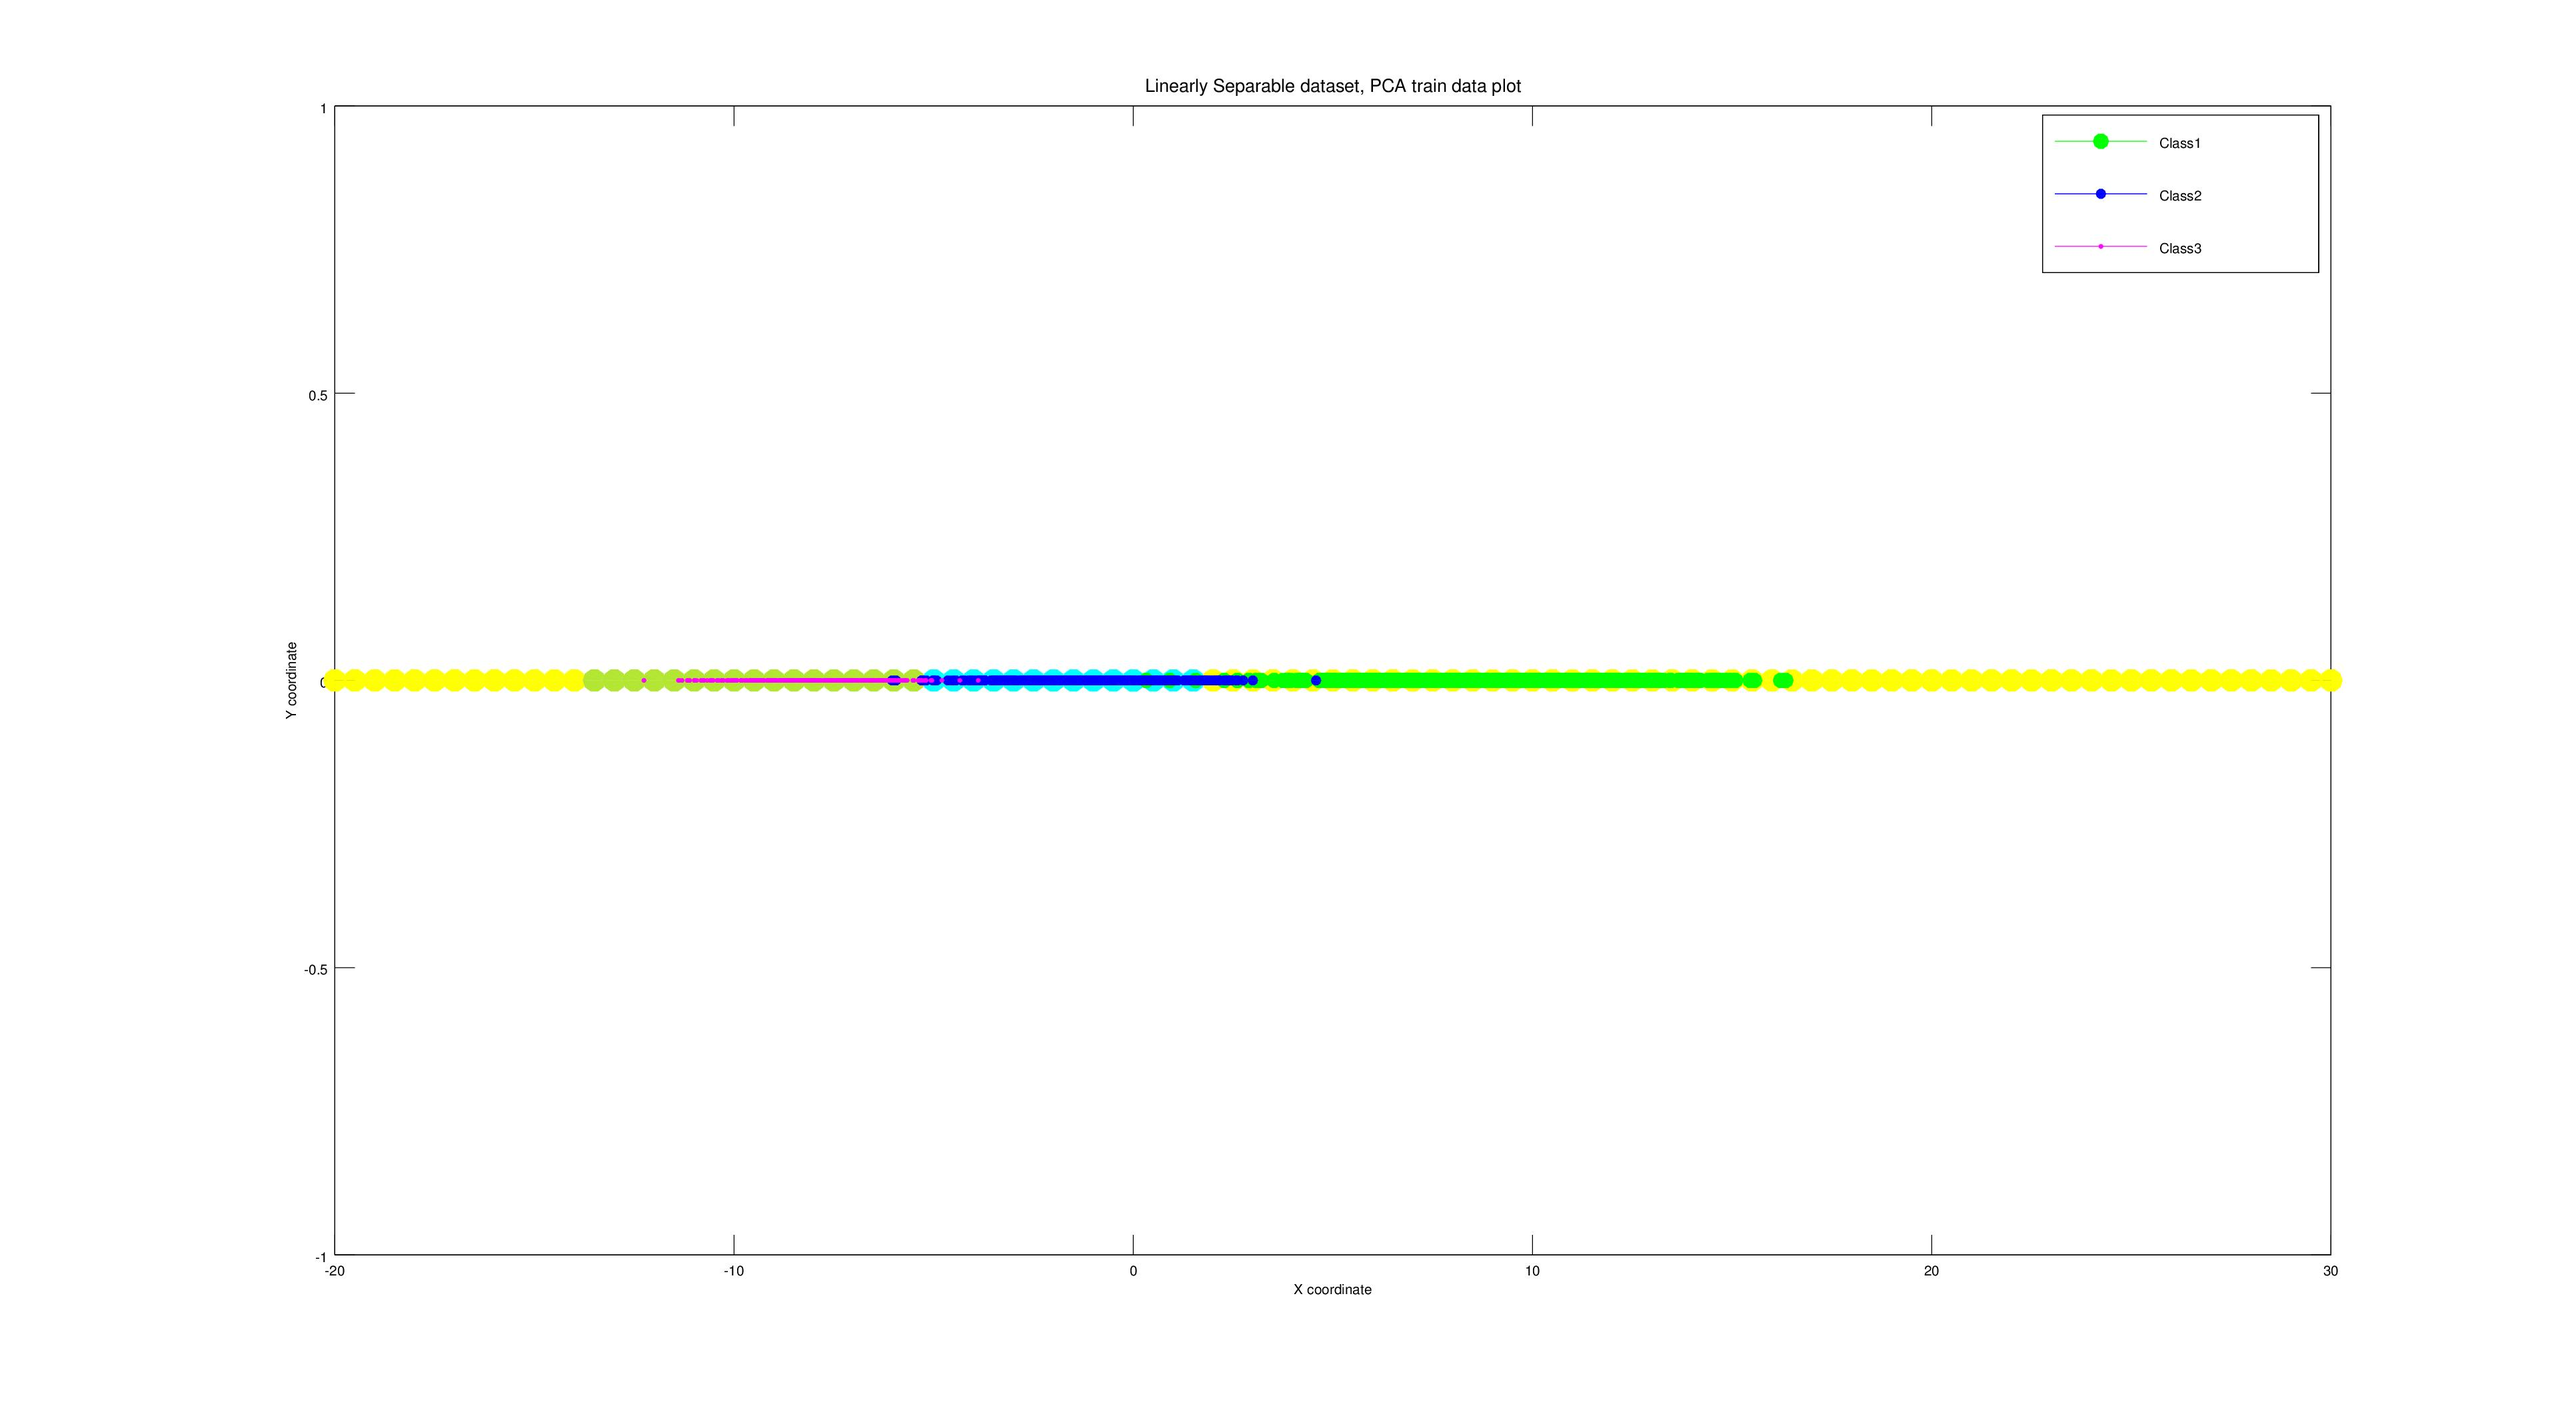
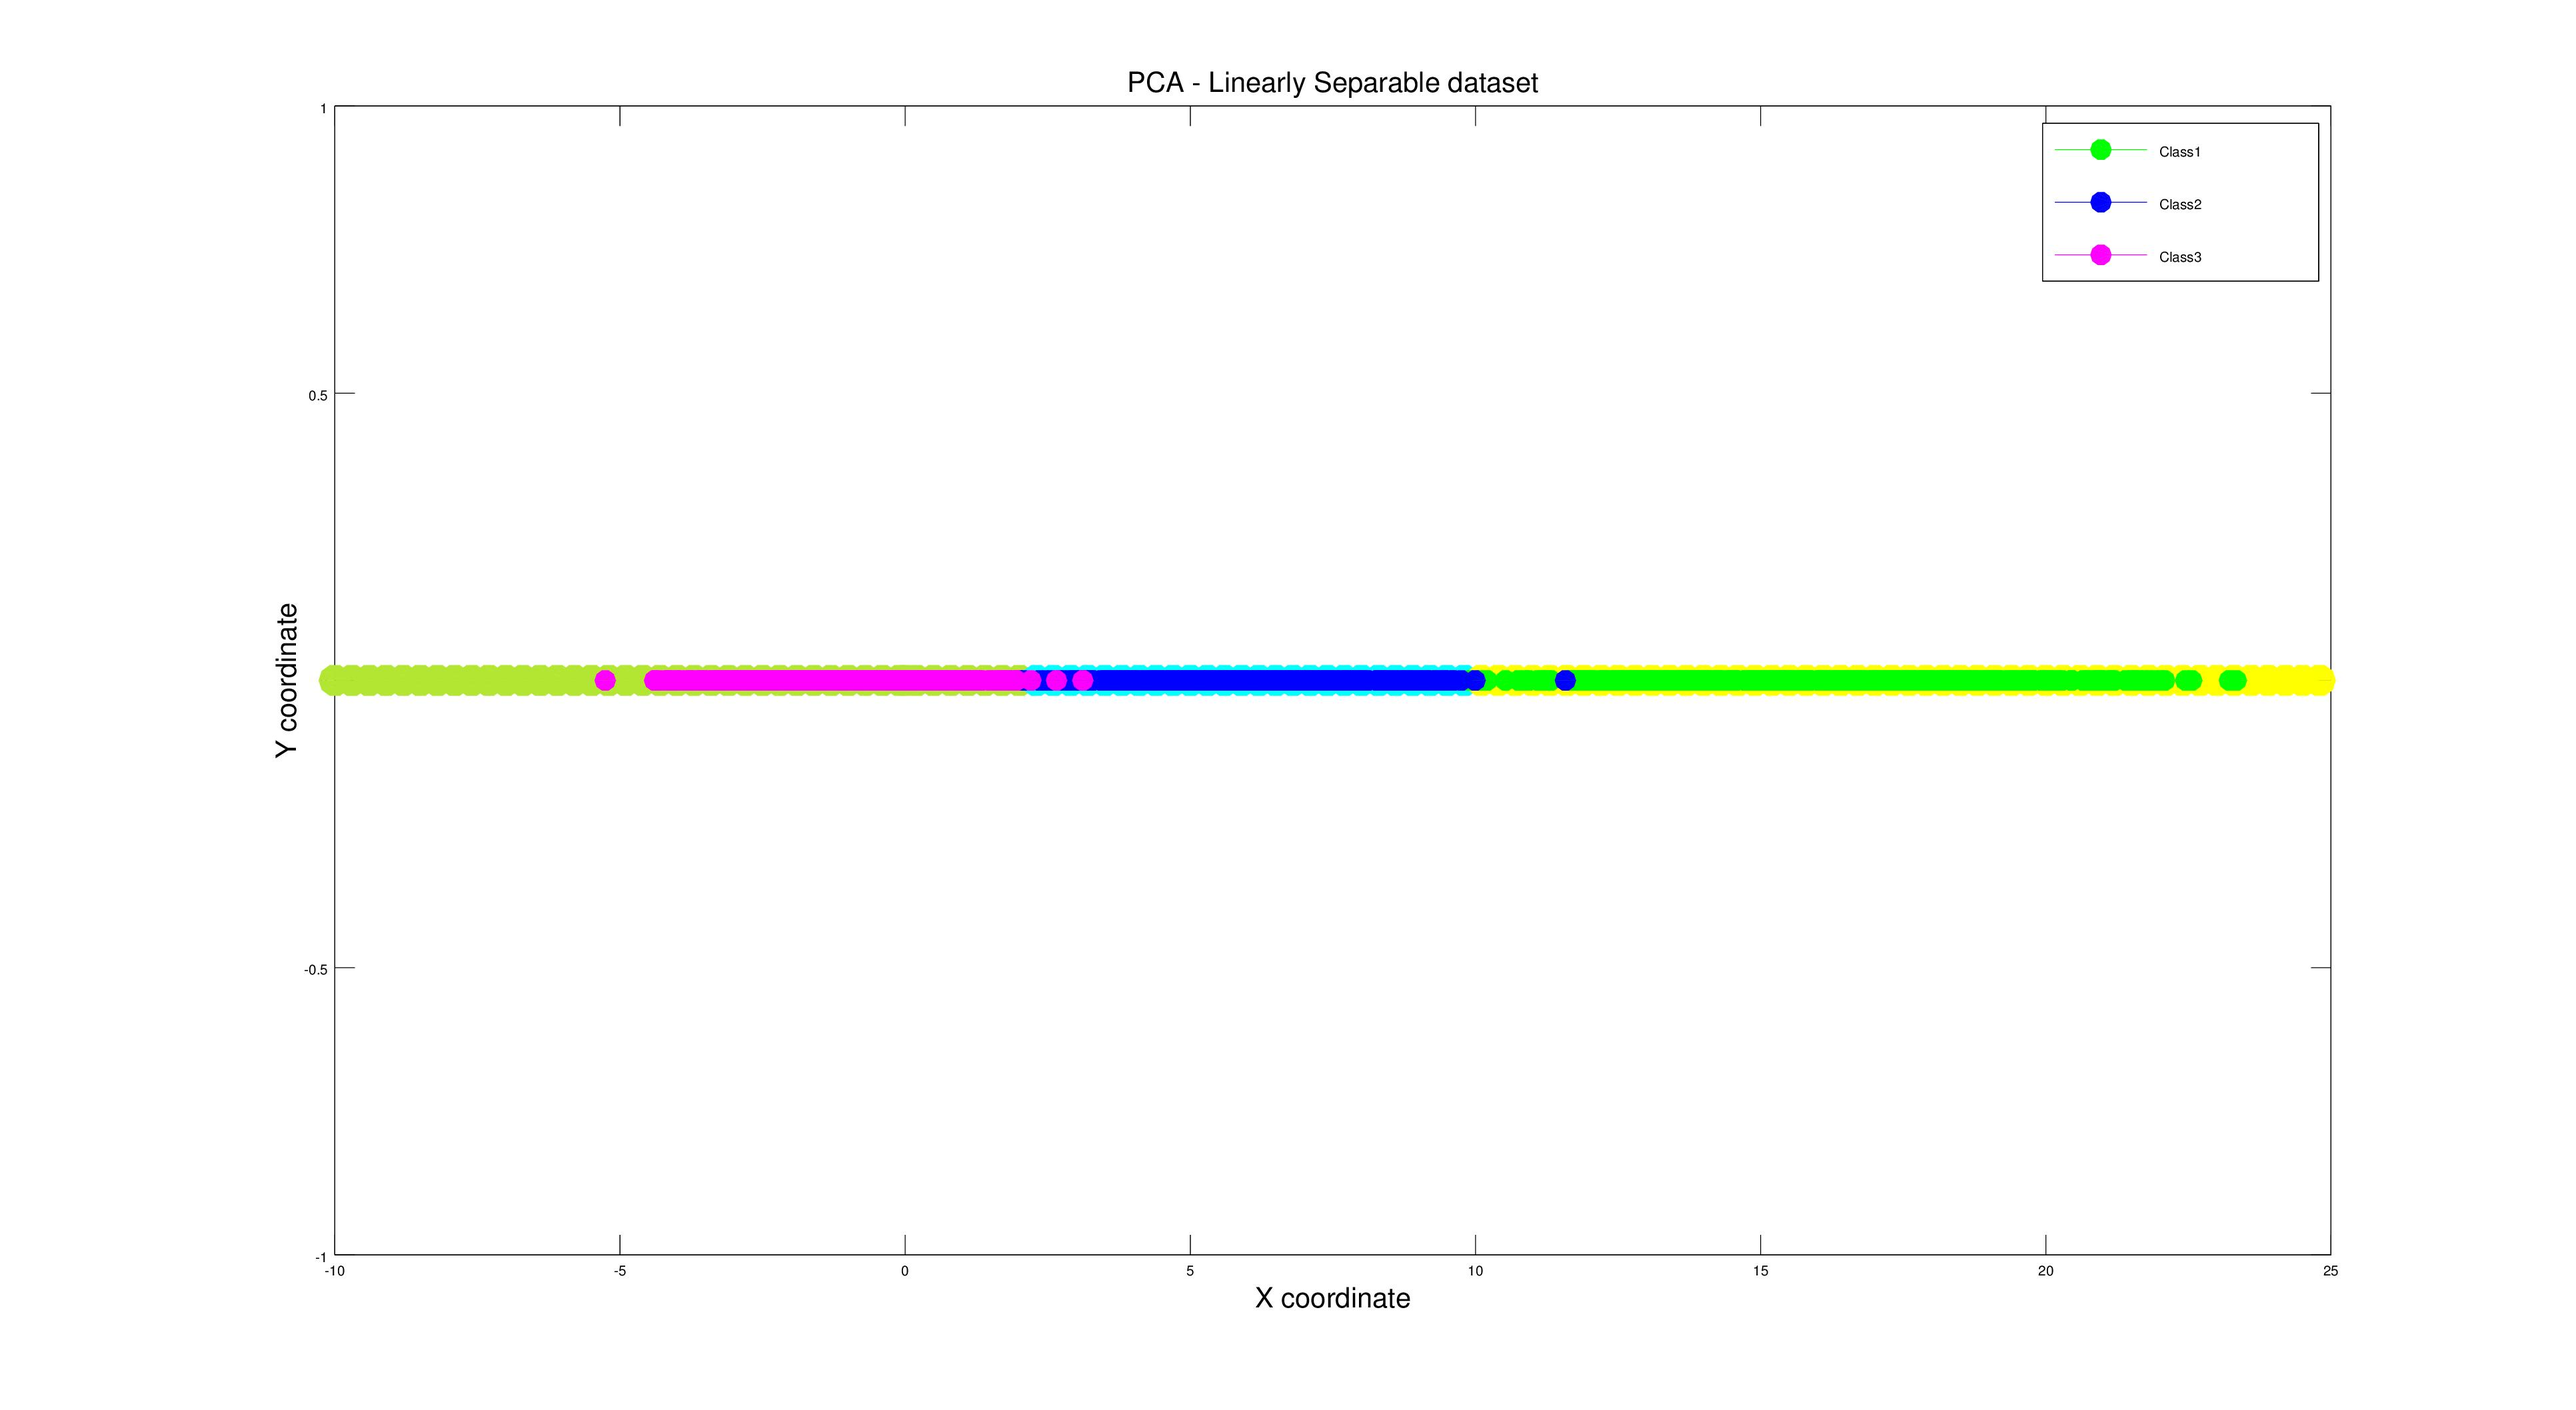
Added graphs in PCA

diff --git a/Assignment_4/PCA/classifier.m b/Assignment_4/PCA/classifier.m
@@ -17,7 +17,7 @@ disp('classifier starts ..');
 	[Mean,Cov,Pi] = GMM(X1,k);       
 	[MeanY,CovY,PiY] = GMM(Y1,k);
 	[MeanZ,CovZ,PiZ] = GMM(Z1,k);
-	figure(100);
+	% figure(100);
 	tc1 = 0;
 	tc2 = 0;
 	tc3 = 0;
@@ -48,21 +48,21 @@ disp('classifier starts ..');
 		G = [p,q,r];
 		g = max(G);
 		if (g == p),
-			plot(X(i,1),0,'g');
+			% plot(X(i,1),0,'g');
 			tc1 = tc1 + 1;
-			hold on;
+			% hold on;
 			end;			
 		if (g == q),
-			plot(X(i,1),0,'b');
+			% plot(X(i,1),0,'b');
 			tp2 = tp2 + 1;
 			t12 = t12 + 1;
-			hold on;
+			% hold on;
 		end;
 		if (g == r),
-			plot(X(i,1),0,'m');
+			% plot(X(i,1),0,'m');
 			tp3 = tp3 + 1;
 			t13 = t13 + 1;
-			hold on;
+			% hold on;
 		end;
 	end;		
 
@@ -84,21 +84,21 @@ disp('classifier starts ..');
 		G = [p,q,r];
 		g = max(G);
 		if (g == p),
-			plot(Y(i,1),0,'g');
+			% plot(Y(i,1),0,'g');
 			tp1 = tp1 + 1;
 			t21 = t21 + 1;
-			hold on;
+			% hold on;
 			end;			
 		if (g == q),
-			plot(Y(i,1),0,'b');
+			% plot(Y(i,1),0,'b');
 			tc2 = tc2 + 1;
-			hold on;
+			% hold on;
 		end;
 		if (g == r),
-			plot(Y(i,1),0,'m');
+			% plot(Y(i,1),0,'m');
 			tp3 = tp3 + 1;
 			t23 = t23 + 1;
-			hold on;
+			% hold on;
 		end;
 	end;
 
@@ -119,21 +119,21 @@ disp('classifier starts ..');
 		G = [p,q,r];
 		g = max(G);
 		if (g == p),
-			plot(Z(i,1),0,'g');
+			% plot(Z(i,1),0,'g');
 			tp1 = tp1 + 1;
 			t31 = t31 + 1;
-			hold on;
+			% hold on;
 			end;			
 		if (g == q),
-			plot(Z(i,1),0,'b');
+			% plot(Z(i,1),0,'b');
 			tp2 = tp2 + 1;
 			t32 = t32 + 1;
-			hold on;
+			% hold on;
 		end;
 		if (g == r),
-			plot(Z(i,1),0,'m');
+			% plot(Z(i,1),0,'m');
 			tc3 = tc3 + 1;
-			hold on;
+			% hold on;
 		end;
 	end;		
 
@@ -145,7 +145,7 @@ disp('classifier starts ..');
 	% plotting region
 	figure(203);
 	pts = [0];
-	for i = 0:5:2500,
+	for i = 0:50:2500,
 	  pts = [pts;i];
 	end;
 	for i = 1:length(pts);
@@ -164,87 +164,87 @@ disp('classifier starts ..');
 		 a = [p q r];
 		 a = max(a);
 		 if a == p,
-		    p1=plot(0,x(1),'y','MarkerSize',18);
+		    p1=plot(0,x(1),'y','MarkerSize',35);
 		      hold on;
 		      % ++tc1;
 		 end;     
 		 if a == q,
-		    plot(0,x(1),'c','MarkerSize',18);
+		    plot(0,x(1),'c','MarkerSize',35);
 		      hold on;
 		      % ++tp2;
 		  end;    
 		 if a == r,
-		    plot(0,x(1),'Color',[0.7 0.9 0.2],'MarkerSize',18);
+		    plot(0,x(1),'Color',[0.7 0.9 0.2],'MarkerSize',35);
 		      hold on;
 		      % ++tp2;
 		  end;
       
 	end;
 
-	%training data
-	% n = rows(X);
-	% m1 = floor(0.75 * n);
-	% for i = 1:m1,
-	%    x = [X(i,1)];
-	%    x = x';
-	%    p1=plot(x(1),0,'MarkerSize',8,'g');
-	%    hold on;
-	%  end;
+	% training data
+	n = rows(X);
+	m1 = floor(0.75 * n);
+	for i = 1:m1,
+	   x = [X(i,1)];
+	   x = x';
+	   p1=plot(0,x(1),'MarkerSize',23,'g');
+	   hold on;
+	 end;
 
-	%  n = rows(Y);
-	% m2 = floor(0.75 * n);
-	% for i = 1:m2,
-	%    x = [Y(i,1)];
-	%    x = x';
-	%    p2=plot(x(1),0,'MarkerSize',8,'b');
-	%    hold on;
-	%  end;
+	 n = rows(Y);
+	m2 = floor(0.75 * n);
+	for i = 1:m2,
+	   x = [Y(i,1)];
+	   x = x';
+	   p2=plot(0,x(1),'MarkerSize',23,'b');
+	   hold on;
+	 end;
 
-	%  n = rows(Z);
-	% m3 = floor(0.75 * n);
-	%  for i = 1:m3,
-	%    x = [Z(i,1)];
-	%    x = x';
-	%    p3=plot(x(1),0,'MarkerSize',8,'m');
-	%    hold on;
-	%  end;
+	 n = rows(Z);
+	m3 = floor(0.75 * n);
+	 for i = 1:m3,
+	   x = [Z(i,1)];
+	   x = x';
+	   p3=plot(0,x(1),'MarkerSize',23,'m');
+	   hold on;
+	 end;
 
 	% testing data
 	% figure(34);
-	n = rows(X);
-	m1 = floor(0.75 * n)+1;
-	for i = m1:n,
-	  x = [X(i,1)];
-	  x = x';
-	  p1=plot(0,x(1),'MarkerSize',8,'g');
-	  hold on;
-	end;
+	% n = rows(X);
+	% m1 = floor(0.75 * n)+1;
+	% for i = m1:n,
+	%   x = [X(i,1)];
+	%   x = x';
+	%   p1=plot(0,x(1),'MarkerSize',8,'g');
+	%   hold on;
+	% end;
 
-	n = rows(Y);
-	m2 = floor(0.75 * n)+1;
-	for i = m2:n,
-	  x = [Y(i,1)];
-	  x = x';
-	  p2=plot(0,x(1),'MarkerSize',8,'b');
-	  hold on;
-	end;
+	% n = rows(Y);
+	% m2 = floor(0.75 * n)+1;
+	% for i = m2:n,
+	%   x = [Y(i,1)];
+	%   x = x';
+	%   p2=plot(0,x(1),'MarkerSize',8,'b');
+	%   hold on;
+	% end;
 
-	n = rows(Z);
-	m3 = floor(0.75 * n)+1;
-	for i = m3:n,
-	  x = [Z(i,1)];
-	  x = x';
-	  p3=plot(0,x(1),'MarkerSize',8,'m');
-	  hold on;
-	end;
+	% n = rows(Z);
+	% m3 = floor(0.75 * n)+1;
+	% for i = m3:n,
+	%   x = [Z(i,1)];
+	%   x = x';
+	%   p3=plot(0,x(1),'MarkerSize',8,'m');
+	%   hold on;
+	% end;
 
 
-	% xlabel('X coordinate');
-	% ylabel('Y coordinate');
-	% title('Real Dataset(K = 4)');
-	% legend([p1,p2,p3],'Class1','Class2','Class3');
-	% % print -djpg RD_4.jpg;
-	% hold off;
+	xlabel('X coordinate','FontSize',20);
+	ylabel('Y coordinate','FontSize',20);
+	title('PCA - Real World dataset','FontSize',20);
+	legend([p1,p2,p3],'Class1','Class2','Class3');
+	% print -djpg RD_4.jpg;
+	hold off;
 
 
 % end;

diff --git a/Assignment_4/Perceptron/Perceptron.m b/Assignment_4/Perceptron/Perceptron.m
@@ -23,7 +23,7 @@ function [] = Perceptron()
 	confusionmatrix
 
 	% plotting region
-   figure(4);
+   figure(5);
    pts = [0 0];
    for i = -10:0.9:30,
     for j = -20:0.9:20,
@@ -56,17 +56,24 @@ function [] = Perceptron()
    	Size = size(TrainData{i});
    	for j = 1:Size,
    		if i == 1,
-   			plot(TrainData{i}(j,1),TrainData{i}(j,2),'g','MarkerSize',9)
+   			p1 = plot(TrainData{i}(j,1),TrainData{i}(j,2),'g','MarkerSize',9)
    			hold on;
    		end
    		if i == 2,
-   			plot(TrainData{i}(j,1),TrainData{i}(j,2),'b','MarkerSize',9)
+   			p2 = plot(TrainData{i}(j,1),TrainData{i}(j,2),'b','MarkerSize',9)
    			hold on;
    		end
    		if i == 3,
-   			plot(TrainData{i}(j,1),TrainData{i}(j,2),'m','MarkerSize',9)
+   			p3 = plot(TrainData{i}(j,1),TrainData{i}(j,2),'m','MarkerSize',9)
    			hold on;
    		end	
    	end	
-   end		
+   end
+
+  xlabel('X coordinate','FontSize',13);
+  ylabel('Y coordinate','FontSize',13);
+  title('Perceptron - Linearly Separable dataset','FontSize',13);
+  legend([p1,p2,p3],'Class1','Class2','Class3');
+  % print -djpg RD_4.jpg;
+  hold off;		
 end

diff --git a/Assignment_4/Perceptron/testplot.m b/Assignment_4/Perceptron/testplot.m
@@ -1,0 +1,33 @@
+function [] = testplot(X,Y,Z)
+
+	%figure(34);
+   n = rows(X);
+   m1 = floor(0.75 * n)+1
+   for i = m1:n,
+      x = [X(i,1) X(i,2)];
+      x = x';
+      p1=plot(x(1),x(2),'MarkerSize',10,'g');
+      hold on;
+    end;
+    
+    n = rows(Y);
+   m2 = floor(0.75 * n)+1;
+   for i = m2:n,
+      x = [Y(i,1) Y(i,2)];
+      x = x';
+      p2=plot(x(1),x(2),'MarkerSize',10,'b');
+      hold on;
+    end;
+
+    n = rows(Z);
+   m3 = floor(0.75 * n)+1;
+    for i = m3:n,
+      x = [Z(i,1)  Z(i,2)];
+      x = x';
+      p3=plot(x(1),x(2),'MarkerSize',10,'m');
+      hold on;
+    end;
+
+	
+
+end	

diff --git a/Assignment_4/PCA/getReducedDimensions.m b/Assignment_4/PCA/getReducedDimensions.m
@@ -1,6 +1,6 @@
 function [reducedQ, reducedTrain , reducedTest] = getReducedDimensions(Q,l)
 
-	[TrainData , TestData] = datasets('LS_Group3/'); 
+	[TrainData , TestData] = datasets('rd_group3/'); 
 	numclasses = length(TrainData);
 	Mean = 0;
 	a = 0;

diff --git a/Assignment_4/PCA/IMAGE/PCA.m b/Assignment_4/PCA/IMAGE/PCA.m
@@ -13,6 +13,6 @@ function [] = PCA(Q,l)  %%%%% l : reduced no of dimensions
 
 	% confusionmatrix = classify(reducedTest,Mean,Cov,reducedTrain) 
    
-   	classifier(reducedTrain, reducedTest, l);
+   	classifier(reducedTrain, reducedTest, 4);
 
 end

diff --git a/Assignment_4/Perceptron/weight_vector.m b/Assignment_4/Perceptron/weight_vector.m
@@ -3,7 +3,7 @@ function [a1] = weight_vector(TrainData,index)
 	d = columns(TrainData{1});
 	a1 = ones(d+1,1);
 	numclasses = length(TrainData);
-	eta = 1000;
+	eta = 3;
 	u = 1;
 	while(u<=400)
 		l = 1;
